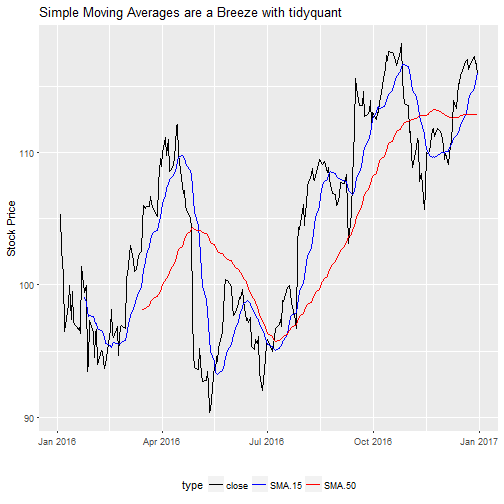
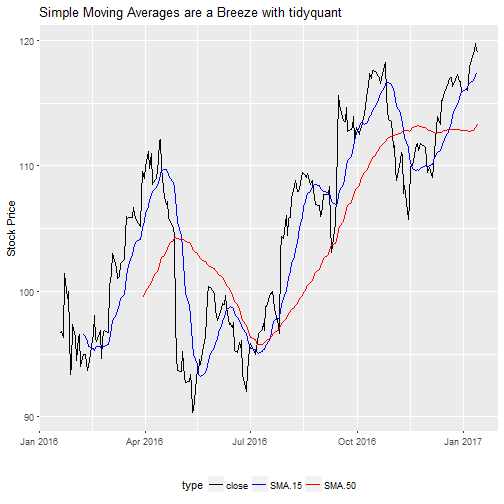
update tidyquant posts

diff --git a/_posts/2017-1-1-tidyquant-introduction.md b/_posts/2017-1-1-tidyquant-introduction.md
@@ -13,6 +13,7 @@ My new package, `tidyquant`, is now available on CRAN. `tidyquant` integrates th
 
 # Table of Contents
 
+  * [Updates](#updates)
   * [Why tidyquant?](#why)
   * [Benefits](#benefits)
   * [Example: Visualizing Moving Averages](#example)
@@ -23,6 +24,10 @@ My new package, `tidyquant`, is now available on CRAN. `tidyquant` integrates th
   * [Conclusion](#conclusion)
   * [Recap](#recap)
   * [Further Reading](#further-reading)
+
+# Updates <a class="anchor" id="updates"></a>
+
+* _2017-01-17_: I updated the post to use the 0.2.0 `tq_mutate` and `tq_transform` function arguments `ohlc_fun`, `x`, and `y` (replaces `x_fun`, `.x` and `.y`, respectively). These will be deprecated in 0.3.0 so please make the switch! :)
 
 # Why tidyquant? <a class="anchor" id="why"></a>
 
@@ -96,23 +101,23 @@ AAPL
 
 
 {% highlight text %}
-## # A tibble: 252 × 7
-##          date   open   high    low  close   volume  adjusted
-##        <date>  <dbl>  <dbl>  <dbl>  <dbl>    <dbl>     <dbl>
-## 1  2016-01-04 102.61 105.37 102.00 105.35 67649400 103.05706
-## 2  2016-01-05 105.75 105.85 102.41 102.71 55791000 100.47452
-## 3  2016-01-06 100.56 102.37  99.87 100.70 68457400  98.50827
-## 4  2016-01-07  98.68 100.13  96.43  96.45 81094400  94.35077
-## 5  2016-01-08  98.55  99.11  96.76  96.96 70798000  94.84967
-## 6  2016-01-11  98.97  99.06  97.34  98.53 49739400  96.38550
-## 7  2016-01-12 100.55 100.69  98.84  99.96 49154200  97.78438
-## 8  2016-01-13 100.32 101.19  97.30  97.39 62439600  95.27031
-## 9  2016-01-14  97.96 100.48  95.74  99.52 63170100  97.35395
-## 10 2016-01-15  96.20  97.71  95.36  97.13 79010000  95.01597
-## # ... with 242 more rows
+## # A tibble: 251 × 7
+##          date   open   high   low  close    volume adjusted
+##        <date>  <dbl>  <dbl> <dbl>  <dbl>     <dbl>    <dbl>
+## 1  2016-01-19  98.41  98.65 95.50  96.66  53087700 94.55621
+## 2  2016-01-20  95.10  98.19 93.42  96.79  72334400 94.68337
+## 3  2016-01-21  97.06  97.88 94.94  96.30  52161500 94.20404
+## 4  2016-01-22  98.63 101.46 98.37 101.42  65800500 99.21260
+## 5  2016-01-25 101.52 101.53 99.21  99.44  51794500 97.27570
+## 6  2016-01-26  99.93 100.88 98.07  99.99  75077000 97.81372
+## 7  2016-01-27  96.04  96.63 93.34  93.42 133369700 91.38672
+## 8  2016-01-28  93.79  94.52 92.39  94.09  55678800 92.04213
+## 9  2016-01-29  94.79  97.34 94.35  97.34  64416500 95.22140
+## 10 2016-02-01  96.47  96.71 95.40  96.43  40943500 94.33121
+## # ... with 241 more rows
 {% endhighlight %}
 
-We now have 252 days of stock prices as a `tibble` object. This is exactly the format we want for working in the `tidyverse`. 
+We now have 251 days of stock prices as a `tibble` object. This is exactly the format we want for working in the `tidyverse`. 
 
 ## Step 3: Use tq_mutate to add moving averages <a class="anchor" id="step3"></a>
 
@@ -132,9 +137,9 @@ For this tutorial, we will use `tq_mutate()` to expose you to OHLC notation alon
 
 ### tq_mutate() function
 
-`tq_mutate()` has two primary arguments: `x_fun` and `mutate_fun`: 
+`tq_mutate()` has two primary arguments: `ohlc_fun` and `mutate_fun`: 
 
-* `x_fun`: Takes `quantmod::OHLC` functions, which are `Op`, `Cl`, `Hi`, `Lo`, `Vo`, `Ad`, `HLC`, `OHLC`, and `OHLCV`. The OHLC notation is the basis of all `quantmod`, `xts`, and `TTR` functions. These functions collect a subset of the dataframe columns matching open, high, low, close, volume, and/or adjusted. Think of the OHLC notation akin to the `dplyr::select()` function, which selects columns. `Op` selects the column named "open", and `HLC` selects "high", "low" and "close" columns.
+* `ohlc_fun`: Takes `quantmod::OHLC` functions, which are `Op`, `Cl`, `Hi`, `Lo`, `Vo`, `Ad`, `HLC`, `OHLC`, and `OHLCV`. The OHLC notation is the basis of all `quantmod`, `xts`, and `TTR` functions. These functions collect a subset of the dataframe columns matching open, high, low, close, volume, and/or adjusted. Think of the OHLC notation akin to the `dplyr::select()` function, which selects columns. `Op` selects the column named "open", and `HLC` selects "high", "low" and "close" columns.
 
 * `mutate_fun`: Takes any `quantmod`, `xts`, or `TTR` function listed in `tq_mutate_fun_options()` (see below for compatible functions). The `mutation_fun` performs the work. Any additional parameters of the passed via `...` in the `tq_mutate()` function go to the `mutation_fun`.  
 
@@ -148,37 +153,38 @@ tq_mutate_fun_options() %>%
 
 
 {% highlight text %}
-## List of 3
+## List of 4
+##  $ zoo     : chr [1:14] "rollapply" "rollapplyr" "rollmax" "rollmax.default" ...
 ##  $ xts     : chr [1:27] "apply.daily" "apply.monthly" "apply.quarterly" "apply.weekly" ...
 ##  $ quantmod: chr [1:25] "allReturns" "annualReturn" "ClCl" "dailyReturn" ...
 ##  $ TTR     : chr [1:61] "adjRatios" "ADX" "ALMA" "aroon" ...
 {% endhighlight %}
 
-An example with `SMA()` from the `TTR` package helps solidify how it works. Reviewing the documentation for `SMA`, we see that the function, `SMA(x, n = 10, ...)`, accepts `x` a price or volume and `n` a number of periods to average over. For the 15-day simple moving average, we would pass a set of prices, either "close" or "adjusted", and `n = 15` for 15 days. In OHLC notation `x_fun = Cl` for "close" or `x_fun = Ad` for adjusted. The `mutate_fun = SMA`, and we pass `n = 15` as an additional argument. Shown below, we pipe (`%>%`) our tibble of AAPL stock prices to `tq_mutate(x_fun = Cl, mutate_fun = SMA, n = 15)`, which creates an additional column with the simple moving average of the close prices. 
+An example with `SMA()` from the `TTR` package helps solidify how it works. Reviewing the documentation for `SMA`, we see that the function, `SMA(x, n = 10, ...)`, accepts `x` a price or volume and `n` a number of periods to average over. For the 15-day simple moving average, we would pass a set of prices, either "close" or "adjusted", and `n = 15` for 15 days. In OHLC notation `ohlc_fun = Cl` for "close" or `ohlc_fun = Ad` for adjusted. The `mutate_fun = SMA`, and we pass `n = 15` as an additional argument. Shown below, we pipe (`%>%`) our tibble of AAPL stock prices to `tq_mutate(ohlc_fun = Cl, mutate_fun = SMA, n = 15)`, which creates an additional column with the simple moving average of the close prices. 
 
 
 {% highlight r %}
 AAPL %>%
-    tq_mutate(x_fun = Cl, mutate_fun = SMA, n = 15)
+    tq_mutate(ohlc_fun = Cl, mutate_fun = SMA, n = 15)
 {% endhighlight %}
 
 
 
 {% highlight text %}
-## # A tibble: 252 × 8
-##          date   open   high    low  close   volume  adjusted   SMA
-##        <date>  <dbl>  <dbl>  <dbl>  <dbl>    <dbl>     <dbl> <dbl>
-## 1  2016-01-04 102.61 105.37 102.00 105.35 67649400 103.05706    NA
-## 2  2016-01-05 105.75 105.85 102.41 102.71 55791000 100.47452    NA
-## 3  2016-01-06 100.56 102.37  99.87 100.70 68457400  98.50827    NA
-## 4  2016-01-07  98.68 100.13  96.43  96.45 81094400  94.35077    NA
-## 5  2016-01-08  98.55  99.11  96.76  96.96 70798000  94.84967    NA
-## 6  2016-01-11  98.97  99.06  97.34  98.53 49739400  96.38550    NA
-## 7  2016-01-12 100.55 100.69  98.84  99.96 49154200  97.78438    NA
-## 8  2016-01-13 100.32 101.19  97.30  97.39 62439600  95.27031    NA
-## 9  2016-01-14  97.96 100.48  95.74  99.52 63170100  97.35395    NA
-## 10 2016-01-15  96.20  97.71  95.36  97.13 79010000  95.01597    NA
-## # ... with 242 more rows
+## # A tibble: 251 × 8
+##          date   open   high   low  close    volume adjusted   SMA
+##        <date>  <dbl>  <dbl> <dbl>  <dbl>     <dbl>    <dbl> <dbl>
+## 1  2016-01-19  98.41  98.65 95.50  96.66  53087700 94.55621    NA
+## 2  2016-01-20  95.10  98.19 93.42  96.79  72334400 94.68337    NA
+## 3  2016-01-21  97.06  97.88 94.94  96.30  52161500 94.20404    NA
+## 4  2016-01-22  98.63 101.46 98.37 101.42  65800500 99.21260    NA
+## 5  2016-01-25 101.52 101.53 99.21  99.44  51794500 97.27570    NA
+## 6  2016-01-26  99.93 100.88 98.07  99.99  75077000 97.81372    NA
+## 7  2016-01-27  96.04  96.63 93.34  93.42 133369700 91.38672    NA
+## 8  2016-01-28  93.79  94.52 92.39  94.09  55678800 92.04213    NA
+## 9  2016-01-29  94.79  97.34 94.35  97.34  64416500 95.22140    NA
+## 10 2016-02-01  96.47  96.71 95.40  96.43  40943500 94.33121    NA
+## # ... with 241 more rows
 {% endhighlight %}
 
 We need both the 15-day and the 50-day moving average, which is two steps with the pipe. I `rename` in between steps so the column names are more descriptive.
@@ -186,64 +192,64 @@ We need both the 15-day and the 50-day moving average, which is two steps with t
 
 {% highlight r %}
 AAPL %>%
-    tq_mutate(x_fun = Cl, mutate_fun = SMA, n = 15) %>%
+    tq_mutate(ohlc_fun = Cl, mutate_fun = SMA, n = 15) %>%
     rename(SMA.15 = SMA) %>%
-    tq_mutate(x_fun = Cl, mutate_fun = SMA, n = 50) %>%
+    tq_mutate(ohlc_fun = Cl, mutate_fun = SMA, n = 50) %>%
     rename(SMA.50 = SMA)
 {% endhighlight %}
 
 
 
 {% highlight text %}
-## # A tibble: 252 × 9
-##          date   open   high    low  close   volume  adjusted SMA.15
-##        <date>  <dbl>  <dbl>  <dbl>  <dbl>    <dbl>     <dbl>  <dbl>
-## 1  2016-01-04 102.61 105.37 102.00 105.35 67649400 103.05706     NA
-## 2  2016-01-05 105.75 105.85 102.41 102.71 55791000 100.47452     NA
-## 3  2016-01-06 100.56 102.37  99.87 100.70 68457400  98.50827     NA
-## 4  2016-01-07  98.68 100.13  96.43  96.45 81094400  94.35077     NA
-## 5  2016-01-08  98.55  99.11  96.76  96.96 70798000  94.84967     NA
-## 6  2016-01-11  98.97  99.06  97.34  98.53 49739400  96.38550     NA
-## 7  2016-01-12 100.55 100.69  98.84  99.96 49154200  97.78438     NA
-## 8  2016-01-13 100.32 101.19  97.30  97.39 62439600  95.27031     NA
-## 9  2016-01-14  97.96 100.48  95.74  99.52 63170100  97.35395     NA
-## 10 2016-01-15  96.20  97.71  95.36  97.13 79010000  95.01597     NA
-## # ... with 242 more rows, and 1 more variables: SMA.50 <dbl>
+## # A tibble: 251 × 9
+##          date   open   high   low  close    volume adjusted SMA.15
+##        <date>  <dbl>  <dbl> <dbl>  <dbl>     <dbl>    <dbl>  <dbl>
+## 1  2016-01-19  98.41  98.65 95.50  96.66  53087700 94.55621     NA
+## 2  2016-01-20  95.10  98.19 93.42  96.79  72334400 94.68337     NA
+## 3  2016-01-21  97.06  97.88 94.94  96.30  52161500 94.20404     NA
+## 4  2016-01-22  98.63 101.46 98.37 101.42  65800500 99.21260     NA
+## 5  2016-01-25 101.52 101.53 99.21  99.44  51794500 97.27570     NA
+## 6  2016-01-26  99.93 100.88 98.07  99.99  75077000 97.81372     NA
+## 7  2016-01-27  96.04  96.63 93.34  93.42 133369700 91.38672     NA
+## 8  2016-01-28  93.79  94.52 92.39  94.09  55678800 92.04213     NA
+## 9  2016-01-29  94.79  97.34 94.35  97.34  64416500 95.22140     NA
+## 10 2016-02-01  96.47  96.71 95.40  96.43  40943500 94.33121     NA
+## # ... with 241 more rows, and 1 more variables: SMA.50 <dbl>
 {% endhighlight %}
 
 
 ### tq_mutate_xy() function
 
-Not all `quantmod`, `xts`, and `TTR` functions work with OHLC notation. A few of these functions take two primary inputs. An example of this is the `Delt` function from the `quantmod` package. The function form is `Delt(x1, x2 = NULL, k = 0, type = c("arithmetic", "log"))`, which has `x1` and `x2` arguments. In these situations you will need to use the XY variant, `tq_mutate_xy()`, which accepts `.x` (required) and `.y` (optional).  For the `Delt` function, `.x = x1` and `.y = x2`.
+Not all `quantmod`, `xts`, and `TTR` functions work with OHLC notation. A few of these functions take two primary inputs. An example of this is the `Delt` function from the `quantmod` package. The function form is `Delt(x1, x2 = NULL, k = 0, type = c("arithmetic", "log"))`, which has `x1` and `x2` arguments. In these situations you will need to use the XY variant, `tq_mutate_xy()`, which accepts `x` (required) and `y` (optional).  For the `Delt` function, `x = x1` and `y = x2`.
 
-For the `SMA()` function, we don't need the `.y` argument, but we can use the XY variant to accomplish the same task as the OHLC variant. The operation is the same except instead of `x_fun = Cl` we replace with `.x = close` (the name of the column being passed to the mutation function).
+For the `SMA()` function, we don't need the `y` argument, but we can use the XY variant to accomplish the same task as the OHLC variant. The operation is the same except instead of `ohlc_fun = Cl` we replace with `x = close` (the name of the column being passed to the mutation function).
 
 
 {% highlight r %}
 AAPL %>%
-    tq_mutate_xy(.x = close, mutate_fun = SMA, n = 15) %>%
+    tq_mutate_xy(x = close, mutate_fun = SMA, n = 15) %>%
     rename(SMA.15 = SMA) %>%
-    tq_mutate_xy(.x = close, mutate_fun = SMA, n = 50) %>%
+    tq_mutate_xy(x = close, mutate_fun = SMA, n = 50) %>%
     rename(SMA.50 = SMA)
 {% endhighlight %}
 
 
 
 {% highlight text %}
-## # A tibble: 252 × 9
-##          date   open   high    low  close   volume  adjusted SMA.15
-##        <date>  <dbl>  <dbl>  <dbl>  <dbl>    <dbl>     <dbl>  <dbl>
-## 1  2016-01-04 102.61 105.37 102.00 105.35 67649400 103.05706     NA
-## 2  2016-01-05 105.75 105.85 102.41 102.71 55791000 100.47452     NA
-## 3  2016-01-06 100.56 102.37  99.87 100.70 68457400  98.50827     NA
-## 4  2016-01-07  98.68 100.13  96.43  96.45 81094400  94.35077     NA
-## 5  2016-01-08  98.55  99.11  96.76  96.96 70798000  94.84967     NA
-## 6  2016-01-11  98.97  99.06  97.34  98.53 49739400  96.38550     NA
-## 7  2016-01-12 100.55 100.69  98.84  99.96 49154200  97.78438     NA
-## 8  2016-01-13 100.32 101.19  97.30  97.39 62439600  95.27031     NA
-## 9  2016-01-14  97.96 100.48  95.74  99.52 63170100  97.35395     NA
-## 10 2016-01-15  96.20  97.71  95.36  97.13 79010000  95.01597     NA
-## # ... with 242 more rows, and 1 more variables: SMA.50 <dbl>
+## # A tibble: 251 × 9
+##          date   open   high   low  close    volume adjusted SMA.15
+##        <date>  <dbl>  <dbl> <dbl>  <dbl>     <dbl>    <dbl>  <dbl>
+## 1  2016-01-19  98.41  98.65 95.50  96.66  53087700 94.55621     NA
+## 2  2016-01-20  95.10  98.19 93.42  96.79  72334400 94.68337     NA
+## 3  2016-01-21  97.06  97.88 94.94  96.30  52161500 94.20404     NA
+## 4  2016-01-22  98.63 101.46 98.37 101.42  65800500 99.21260     NA
+## 5  2016-01-25 101.52 101.53 99.21  99.44  51794500 97.27570     NA
+## 6  2016-01-26  99.93 100.88 98.07  99.99  75077000 97.81372     NA
+## 7  2016-01-27  96.04  96.63 93.34  93.42 133369700 91.38672     NA
+## 8  2016-01-28  93.79  94.52 92.39  94.09  55678800 92.04213     NA
+## 9  2016-01-29  94.79  97.34 94.35  97.34  64416500 95.22140     NA
+## 10 2016-02-01  96.47  96.71 95.40  96.43  40943500 94.33121     NA
+## # ... with 241 more rows, and 1 more variables: SMA.50 <dbl>
 {% endhighlight %}
 
 ### Back to the example
@@ -253,9 +259,9 @@ Returning back to our need, we get the simple moving averages using one of the t
 
 {% highlight r %}
 AAPL <- AAPL %>%
-    tq_mutate(x_fun = Cl, mutate_fun = SMA, n = 15) %>%
+    tq_mutate(ohlc_fun = Cl, mutate_fun = SMA, n = 15) %>%
     rename(SMA.15 = SMA) %>%
-    tq_mutate(x_fun = Cl, mutate_fun = SMA, n = 50) %>%
+    tq_mutate(ohlc_fun = Cl, mutate_fun = SMA, n = 50) %>%
     rename(SMA.50 = SMA)
 {% endhighlight %}
 
@@ -274,20 +280,20 @@ AAPL %>%
 
 
 {% highlight text %}
-## # A tibble: 756 × 3
+## # A tibble: 753 × 3
 ##          date  type  price
 ##        <date> <chr>  <dbl>
-## 1  2016-01-04 close 105.35
-## 2  2016-01-05 close 102.71
-## 3  2016-01-06 close 100.70
-## 4  2016-01-07 close  96.45
-## 5  2016-01-08 close  96.96
-## 6  2016-01-11 close  98.53
-## 7  2016-01-12 close  99.96
-## 8  2016-01-13 close  97.39
-## 9  2016-01-14 close  99.52
-## 10 2016-01-15 close  97.13
-## # ... with 746 more rows
+## 1  2016-01-19 close  96.66
+## 2  2016-01-20 close  96.79
+## 3  2016-01-21 close  96.30
+## 4  2016-01-22 close 101.42
+## 5  2016-01-25 close  99.44
+## 6  2016-01-26 close  99.99
+## 7  2016-01-27 close  93.42
+## 8  2016-01-28 close  94.09
+## 9  2016-01-29 close  97.34
+## 10 2016-02-01 close  96.43
+## # ... with 743 more rows
 {% endhighlight %}
 
 Now, we can use `ggplot2` to plot the tidy data. We use the same select and gather statements above and pipe to `ggplot`. I add a custom palette to match the black, blue and red colors from the Investopedia graphic. The final code chunk for the visualization is as follows: 
@@ -324,9 +330,10 @@ We discussed why there is a need for `tidyquant`, which is to help minimize the 
 
 This example just scratches the surface of the power of `tidyquant`. See the vignette for a detailed discussion on each of the `tidyquant` features.
 
+
 # Further Reading <a class="anchor" id="further-reading"></a>
 
-1. __[tidyquant Vignette](https://github.com/mdancho84/tidyquant/blob/master/vignettes/tidyquant.md)__: This tutorial just scratches the surface of `tidyquant`. The vignette explains much, much more!
+1. __[tidyquant Vignette](https://CRAN.R-project.org/package=tidyquant)__: This tutorial just scratches the surface of `tidyquant`. The vignette explains much, much more!
 
 2. __[R for Data Science](http://r4ds.had.co.nz/)__: A free book that thoroughly covers the `tidyverse` packages. 
 

diff --git a/_posts/2017-1-8-tidyquant-update-0-2-0.md b/_posts/2017-1-8-tidyquant-update-0-2-0.md
@@ -254,20 +254,20 @@ AAPL_prices
 
 
 {% highlight text %}
-## # A tibble: 252 × 7
-##          date   open   high   low  close   volume adjusted
-##        <date>  <dbl>  <dbl> <dbl>  <dbl>    <dbl>    <dbl>
-## 1  2016-01-08  98.55  99.11 96.76  96.96 70798000 94.84967
-## 2  2016-01-11  98.97  99.06 97.34  98.53 49739400 96.38550
-## 3  2016-01-12 100.55 100.69 98.84  99.96 49154200 97.78438
-## 4  2016-01-13 100.32 101.19 97.30  97.39 62439600 95.27031
-## 5  2016-01-14  97.96 100.48 95.74  99.52 63170100 97.35395
-## 6  2016-01-15  96.20  97.71 95.36  97.13 79010000 95.01597
-## 7  2016-01-19  98.41  98.65 95.50  96.66 53087700 94.55621
-## 8  2016-01-20  95.10  98.19 93.42  96.79 72334400 94.68337
-## 9  2016-01-21  97.06  97.88 94.94  96.30 52161500 94.20404
-## 10 2016-01-22  98.63 101.46 98.37 101.42 65800500 99.21260
-## # ... with 242 more rows
+## # A tibble: 251 × 7
+##          date   open   high   low  close    volume adjusted
+##        <date>  <dbl>  <dbl> <dbl>  <dbl>     <dbl>    <dbl>
+## 1  2016-01-19  98.41  98.65 95.50  96.66  53087700 94.55621
+## 2  2016-01-20  95.10  98.19 93.42  96.79  72334400 94.68337
+## 3  2016-01-21  97.06  97.88 94.94  96.30  52161500 94.20404
+## 4  2016-01-22  98.63 101.46 98.37 101.42  65800500 99.21260
+## 5  2016-01-25 101.52 101.53 99.21  99.44  51794500 97.27570
+## 6  2016-01-26  99.93 100.88 98.07  99.99  75077000 97.81372
+## 7  2016-01-27  96.04  96.63 93.34  93.42 133369700 91.38672
+## 8  2016-01-28  93.79  94.52 92.39  94.09  55678800 92.04213
+## 9  2016-01-29  94.79  97.34 94.35  97.34  64416500 95.22140
+## 10 2016-02-01  96.47  96.71 95.40  96.43  40943500 94.33121
+## # ... with 241 more rows
 {% endhighlight %}
 
 Next, we use `tq_mutate()` to add the 15-day and 50-day rolling medians. The first two arguments are `ohlc_fun = Cl`, which selects the closing price using `quantmod` OHLC notation, and `mutate_fun = rollapply`, which sends the closing price to the rollapply function. The next arguments, `width` and `FUN` are arguments that are passed to the `rollapply` function. Width is the number of periods to take the median, and FUN is the function we intend to apply (i.e. median). The workflow is as follows:
@@ -285,20 +285,20 @@ AAPL_prices
 
 
 {% highlight text %}
-## # A tibble: 252 × 9
-##          date   open   high   low  close   volume adjusted median.15
-##        <date>  <dbl>  <dbl> <dbl>  <dbl>    <dbl>    <dbl>     <dbl>
-## 1  2016-01-08  98.55  99.11 96.76  96.96 70798000 94.84967        NA
-## 2  2016-01-11  98.97  99.06 97.34  98.53 49739400 96.38550        NA
-## 3  2016-01-12 100.55 100.69 98.84  99.96 49154200 97.78438        NA
-## 4  2016-01-13 100.32 101.19 97.30  97.39 62439600 95.27031        NA
-## 5  2016-01-14  97.96 100.48 95.74  99.52 63170100 97.35395        NA
-## 6  2016-01-15  96.20  97.71 95.36  97.13 79010000 95.01597        NA
-## 7  2016-01-19  98.41  98.65 95.50  96.66 53087700 94.55621        NA
-## 8  2016-01-20  95.10  98.19 93.42  96.79 72334400 94.68337        NA
-## 9  2016-01-21  97.06  97.88 94.94  96.30 52161500 94.20404        NA
-## 10 2016-01-22  98.63 101.46 98.37 101.42 65800500 99.21260        NA
-## # ... with 242 more rows, and 1 more variables: median.50 <dbl>
+## # A tibble: 251 × 9
+##          date   open   high   low  close    volume adjusted median.15
+##        <date>  <dbl>  <dbl> <dbl>  <dbl>     <dbl>    <dbl>     <dbl>
+## 1  2016-01-19  98.41  98.65 95.50  96.66  53087700 94.55621        NA
+## 2  2016-01-20  95.10  98.19 93.42  96.79  72334400 94.68337        NA
+## 3  2016-01-21  97.06  97.88 94.94  96.30  52161500 94.20404        NA
+## 4  2016-01-22  98.63 101.46 98.37 101.42  65800500 99.21260        NA
+## 5  2016-01-25 101.52 101.53 99.21  99.44  51794500 97.27570        NA
+## 6  2016-01-26  99.93 100.88 98.07  99.99  75077000 97.81372        NA
+## 7  2016-01-27  96.04  96.63 93.34  93.42 133369700 91.38672        NA
+## 8  2016-01-28  93.79  94.52 92.39  94.09  55678800 92.04213        NA
+## 9  2016-01-29  94.79  97.34 94.35  97.34  64416500 95.22140        NA
+## 10 2016-02-01  96.47  96.71 95.40  96.43  40943500 94.33121        NA
+## # ... with 241 more rows, and 1 more variables: median.50 <dbl>
 {% endhighlight %}
 
 Two new columns, rollapply and rollapply.1, were added to the tibble. We `rename` these to be more descriptive. The next part is the same visualization code used in the last post. Essentially we `gather` the prices we wish to visualize so they are in one long tibble with two columns, "type" (close, median.15, and median.50) and "value". We color each line by "type" using the ggplot aesthetics.
@@ -334,7 +334,7 @@ You should now have a good understanding of the benefits and new features of the
 
 # Further Reading <a class="anchor" id="further-reading"></a>
 
-1. __[tidyquant Vignette](https://cran.r-project.org/web/packages/tidyquant/vignettes/tidyquant.html)__: This tutorial just scratches the surface of `tidyquant`. The vignette explains much, much more!
+1. __[tidyquant Vignette](https://CRAN.R-project.org/package=tidyquant)__: This tutorial just scratches the surface of `tidyquant`. The vignette explains much, much more!
 
 2. __[R for Data Science](http://r4ds.had.co.nz/)__: A free book that thoroughly covers the `tidyverse` packages. 
 
